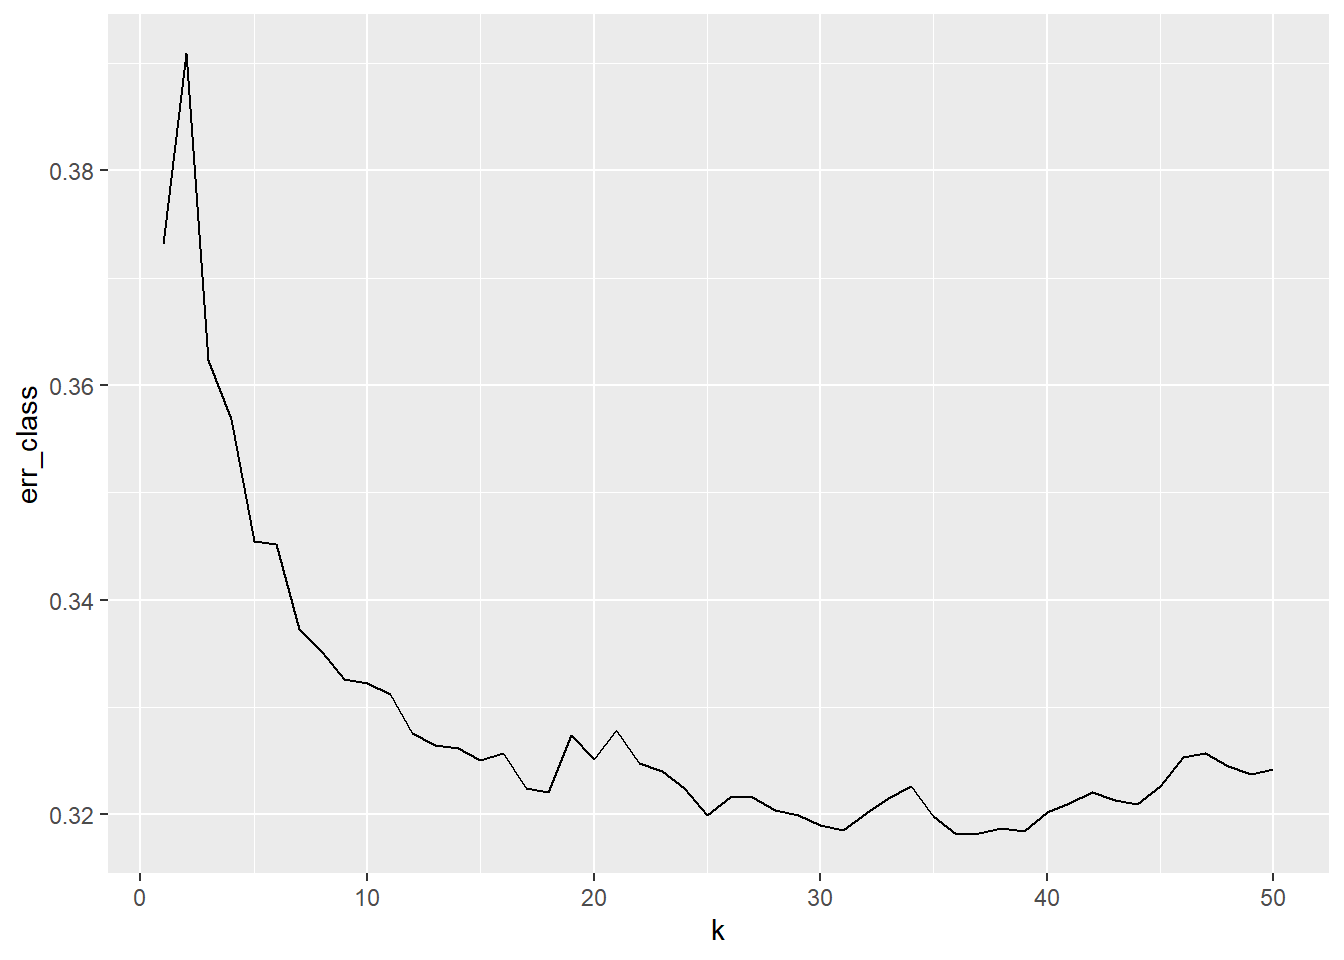
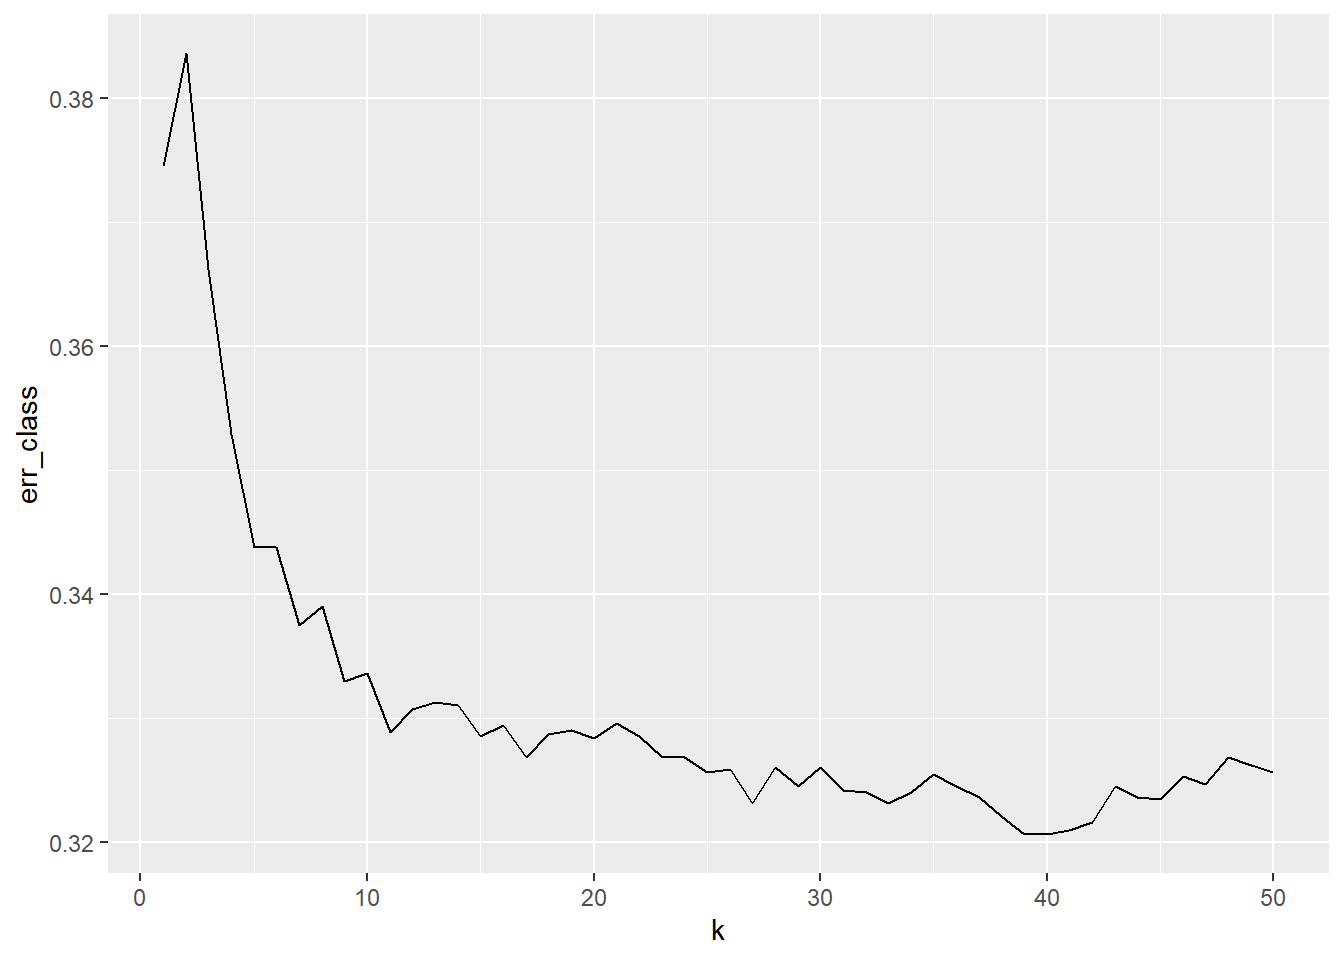
Updating KNN

diff --git a/Presentation Code Compiled.html b/Presentation Code Compiled.html
@@ -200,7 +200,7 @@ $ Race                              &lt;chr&gt; "Unanswered", "Unanswered", "Una
 <span id="cb4-22"><a href="#cb4-22" aria-hidden="true" tabindex="-1"></a>  )) <span class="sc">%&gt;%</span></span>
 <span id="cb4-23"><a href="#cb4-23" aria-hidden="true" tabindex="-1"></a>  <span class="fu">select</span>(</span>
 <span id="cb4-24"><a href="#cb4-24" aria-hidden="true" tabindex="-1"></a>    <span class="st">`</span><span class="at">Amount forgiven</span><span class="st">`</span>, Payroll, Rent, Utilities,</span>
-<span id="cb4-25"><a href="#cb4-25" aria-hidden="true" tabindex="-1"></a>    <span class="st">`</span><span class="at">Health Care</span><span class="st">`</span>, <span class="st">`</span><span class="at">Mortgage Interest</span><span class="st">`</span>, <span class="st">`</span><span class="at">Debt Interest</span><span class="st">`</span>, <span class="st">`</span><span class="at">Refinancing EIDL</span><span class="st">`</span>, Industry,<span class="st">`</span><span class="at">Jobs reported</span><span class="st">`</span>, type_mod, <span class="st">`</span><span class="at">*Loan Status</span><span class="st">`</span>, <span class="st">`</span><span class="at">Date approved</span><span class="st">`</span>, <span class="st">`</span><span class="at">Date forgiven</span><span class="st">`</span>,) <span class="sc">%&gt;%</span></span>
+<span id="cb4-25"><a href="#cb4-25" aria-hidden="true" tabindex="-1"></a>    <span class="st">`</span><span class="at">Health Care</span><span class="st">`</span>, <span class="st">`</span><span class="at">Mortgage Interest</span><span class="st">`</span>, <span class="st">`</span><span class="at">Debt Interest</span><span class="st">`</span>, <span class="st">`</span><span class="at">Refinancing EIDL</span><span class="st">`</span>, Industry,<span class="st">`</span><span class="at">Jobs reported</span><span class="st">`</span>, type_mod, <span class="st">`</span><span class="at">*Loan Status</span><span class="st">`</span>, <span class="st">`</span><span class="at">Date approved</span><span class="st">`</span>, <span class="st">`</span><span class="at">Date forgiven</span><span class="st">`</span>) <span class="sc">%&gt;%</span></span>
 <span id="cb4-26"><a href="#cb4-26" aria-hidden="true" tabindex="-1"></a>  <span class="fu">mutate</span>(</span>
 <span id="cb4-27"><a href="#cb4-27" aria-hidden="true" tabindex="-1"></a>    <span class="at">type_mod =</span> <span class="fu">as_factor</span>(type_mod),</span>
 <span id="cb4-28"><a href="#cb4-28" aria-hidden="true" tabindex="-1"></a>    <span class="at">Industry =</span> <span class="fu">as_factor</span>(Industry)</span>
@@ -564,26 +564,25 @@ Date_forgiven                                                                   
 <span id="cb41-7"><a href="#cb41-7" aria-hidden="true" tabindex="-1"></a></span>
 <span id="cb41-8"><a href="#cb41-8" aria-hidden="true" tabindex="-1"></a><span class="co">#?knn()</span></span>
 <span id="cb41-9"><a href="#cb41-9" aria-hidden="true" tabindex="-1"></a><span class="fu">set.seed</span>(<span class="dv">1234</span>)</span>
-<span id="cb41-10"><a href="#cb41-10" aria-hidden="true" tabindex="-1"></a>training_pct <span class="ot">&lt;-</span> .<span class="dv">70</span></span>
-<span id="cb41-11"><a href="#cb41-11" aria-hidden="true" tabindex="-1"></a><span class="co"># with over 25k observations this leaves about 7,500 for testing</span></span>
-<span id="cb41-12"><a href="#cb41-12" aria-hidden="true" tabindex="-1"></a>Z <span class="ot">=</span> <span class="fu">sample</span>(<span class="fu">nrow</span>(ppp_k), <span class="fu">floor</span>(training_pct<span class="sc">*</span><span class="fu">nrow</span>(ppp_k)))</span>
-<span id="cb41-13"><a href="#cb41-13" aria-hidden="true" tabindex="-1"></a>Xtrain <span class="ot">=</span> ppp_k[Z, <span class="fu">c</span>(<span class="st">"Race"</span>, <span class="st">"Gender"</span>, <span class="st">"Age_of_business"</span>, <span class="st">"Industry"</span>, <span class="st">"Jobs_reported"</span>, <span class="st">"Loan_amount"</span>)] <span class="co"># Our training set x</span></span>
-<span id="cb41-14"><a href="#cb41-14" aria-hidden="true" tabindex="-1"></a>Ytrain <span class="ot">=</span> ppp_k<span class="sc">$</span>type_mod[Z] <span class="co"># Our training set y</span></span>
-<span id="cb41-15"><a href="#cb41-15" aria-hidden="true" tabindex="-1"></a>Xtest <span class="ot">=</span> ppp_k[<span class="sc">-</span>Z, <span class="fu">c</span>(<span class="st">"Race"</span>, <span class="st">"Gender"</span>, <span class="st">"Age_of_business"</span>, <span class="st">"Industry"</span>, <span class="st">"Jobs_reported"</span>, <span class="st">"Loan_amount"</span>)]</span>
-<span id="cb41-16"><a href="#cb41-16" aria-hidden="true" tabindex="-1"></a>Ytest <span class="ot">=</span> ppp_k<span class="sc">$</span>type_mod[<span class="sc">-</span>Z]</span>
-<span id="cb41-17"><a href="#cb41-17" aria-hidden="true" tabindex="-1"></a>Yhat <span class="ot">&lt;-</span> <span class="fu">knn</span>(Xtrain, Xtest, Ytrain, <span class="at">k =</span> <span class="dv">10</span>, <span class="at">prob =</span> <span class="cn">TRUE</span>)</span>
-<span id="cb41-18"><a href="#cb41-18" aria-hidden="true" tabindex="-1"></a></span>
-<span id="cb41-19"><a href="#cb41-19" aria-hidden="true" tabindex="-1"></a><span class="fu">table</span>(Ytest, Yhat)</span></code><button title="Copy to Clipboard" class="code-copy-button"><i class="bi"></i></button></pre></div>
+<span id="cb41-10"><a href="#cb41-10" aria-hidden="true" tabindex="-1"></a>training_pct <span class="ot">&lt;-</span> .<span class="dv">75</span></span>
+<span id="cb41-11"><a href="#cb41-11" aria-hidden="true" tabindex="-1"></a>Z <span class="ot">=</span> <span class="fu">sample</span>(<span class="fu">nrow</span>(ppp_k), <span class="fu">floor</span>(training_pct<span class="sc">*</span><span class="fu">nrow</span>(ppp_k)))</span>
+<span id="cb41-12"><a href="#cb41-12" aria-hidden="true" tabindex="-1"></a>Xtrain <span class="ot">=</span> ppp_k[Z, <span class="fu">c</span>(<span class="st">"Race"</span>, <span class="st">"Gender"</span>, <span class="st">"Age_of_business"</span>, <span class="st">"Industry"</span>, <span class="st">"Jobs_reported"</span>, <span class="st">"Loan_amount"</span>)] <span class="co"># Our training set x</span></span>
+<span id="cb41-13"><a href="#cb41-13" aria-hidden="true" tabindex="-1"></a>Ytrain <span class="ot">=</span> ppp_k<span class="sc">$</span>type_mod[Z] <span class="co"># Our training set y</span></span>
+<span id="cb41-14"><a href="#cb41-14" aria-hidden="true" tabindex="-1"></a>Xtest <span class="ot">=</span> ppp_k[<span class="sc">-</span>Z, <span class="fu">c</span>(<span class="st">"Race"</span>, <span class="st">"Gender"</span>, <span class="st">"Age_of_business"</span>, <span class="st">"Industry"</span>, <span class="st">"Jobs_reported"</span>, <span class="st">"Loan_amount"</span>)]</span>
+<span id="cb41-15"><a href="#cb41-15" aria-hidden="true" tabindex="-1"></a>Ytest <span class="ot">=</span> ppp_k<span class="sc">$</span>type_mod[<span class="sc">-</span>Z]</span>
+<span id="cb41-16"><a href="#cb41-16" aria-hidden="true" tabindex="-1"></a>Yhat <span class="ot">&lt;-</span> <span class="fu">knn</span>(Xtrain, Xtest, Ytrain, <span class="at">k =</span> <span class="dv">10</span>, <span class="at">prob =</span> <span class="cn">TRUE</span>)</span>
+<span id="cb41-17"><a href="#cb41-17" aria-hidden="true" tabindex="-1"></a></span>
+<span id="cb41-18"><a href="#cb41-18" aria-hidden="true" tabindex="-1"></a><span class="fu">table</span>(Ytest, Yhat)</span></code><button title="Copy to Clipboard" class="code-copy-button"><i class="bi"></i></button></pre></div>
 <div class="cell-output cell-output-stdout">
 <pre><code>                        Yhat
 Ytest                    For-profit, group Non-Profit For-profit, Individual
-  For-profit, group                   3079        136                    770
-  Non-Profit                           746         59                     51
-  For-profit, Individual               635          6                   1622</code></pre>
+  For-profit, group                   2565        116                    643
+  Non-Profit                           615         53                     43
+  For-profit, Individual               553          7                   1325</code></pre>
 </div>
 <div class="sourceCode cell-code" id="cb43"><pre class="sourceCode r code-with-copy"><code class="sourceCode r"><span id="cb43-1"><a href="#cb43-1" aria-hidden="true" tabindex="-1"></a><span class="dv">1</span> <span class="sc">-</span> (<span class="fu">table</span>(Ytest, Yhat)[<span class="dv">1</span>, <span class="dv">1</span>] <span class="sc">+</span> <span class="fu">table</span>(Ytest, Yhat)[<span class="dv">2</span>, <span class="dv">2</span>] <span class="sc">+</span> <span class="fu">table</span>(Ytest, Yhat)[<span class="dv">3</span>, <span class="dv">3</span>])<span class="sc">/</span>((<span class="dv">1</span><span class="sc">-</span>training_pct)<span class="sc">*</span><span class="fu">nrow</span>(ppp_k))</span></code><button title="Copy to Clipboard" class="code-copy-button"><i class="bi"></i></button></pre></div>
 <div class="cell-output cell-output-stdout">
-<pre><code>[1] 0.3298984</code></pre>
+<pre><code>[1] 0.3338964</code></pre>
 </div>
 <div class="sourceCode cell-code" id="cb45"><pre class="sourceCode r code-with-copy"><code class="sourceCode r"><span id="cb45-1"><a href="#cb45-1" aria-hidden="true" tabindex="-1"></a><span class="co"># Initialize data</span></span>
 <span id="cb45-2"><a href="#cb45-2" aria-hidden="true" tabindex="-1"></a>err_class <span class="ot">&lt;-</span> <span class="fu">rep</span>(<span class="dv">1</span><span class="sc">:</span><span class="dv">50</span>)</span>
@@ -601,14 +600,14 @@ Ytest                    For-profit, group Non-Profit For-profit, Individual
 </div>
 <div class="sourceCode cell-code" id="cb46"><pre class="sourceCode r code-with-copy"><code class="sourceCode r"><span id="cb46-1"><a href="#cb46-1" aria-hidden="true" tabindex="-1"></a><span class="fu">which.min</span>(err_class)</span></code><button title="Copy to Clipboard" class="code-copy-button"><i class="bi"></i></button></pre></div>
 <div class="cell-output cell-output-stdout">
-<pre><code>[1] 36</code></pre>
+<pre><code>[1] 39</code></pre>
 </div>
 <div class="sourceCode cell-code" id="cb48"><pre class="sourceCode r code-with-copy"><code class="sourceCode r"><span id="cb48-1"><a href="#cb48-1" aria-hidden="true" tabindex="-1"></a>err_class[<span class="fu">which.min</span>(err_class)]</span></code><button title="Copy to Clipboard" class="code-copy-button"><i class="bi"></i></button></pre></div>
 <div class="cell-output cell-output-stdout">
-<pre><code>[1] 0.3181306</code></pre>
+<pre><code>[1] 0.3206081</code></pre>
 </div>
 </div>
-<p>Optimal <em>k</em> is 37 with an error rate of 31.7%</p>
+<p>Optimal <em>k</em> is 39 with an error rate of 32.06%</p>
 </section>
 <section id="lda-and-qda" class="level3">
 <h3 class="anchored" data-anchor-id="lda-and-qda">LDA and QDA</h3>
@@ -632,7 +631,7 @@ Ytest                    For-profit, group Non-Profit For-profit, Individual
 <span id="cb50-17"><a href="#cb50-17" aria-hidden="true" tabindex="-1"></a><span class="co">#LDA Error Rate</span></span>
 <span id="cb50-18"><a href="#cb50-18" aria-hidden="true" tabindex="-1"></a><span class="fu">round</span>(<span class="dv">100</span> <span class="sc">*</span> <span class="fu">sum</span>(lda_df<span class="sc">$</span>Class <span class="sc">!=</span> lda_df<span class="sc">$</span>true_q) <span class="sc">/</span> <span class="fu">nrow</span>(ppp_c), <span class="dv">2</span>) </span></code><button title="Copy to Clipboard" class="code-copy-button"><i class="bi"></i></button></pre></div>
 <div class="cell-output cell-output-stdout">
-<pre><code>[1] 35.76</code></pre>
+<pre><code>[1] 35.73</code></pre>
 </div>
 </div>
 <div class="cell">
@@ -878,7 +877,7 @@ Yhat                     For-profit, group Non-Profit For-profit, Individual
 <tbody>
 <tr class="odd">
 <td>KNN</td>
-<td>31.7%</td>
+<td>32.06%</td>
 </tr>
 <tr class="even">
 <td>LDA</td>
